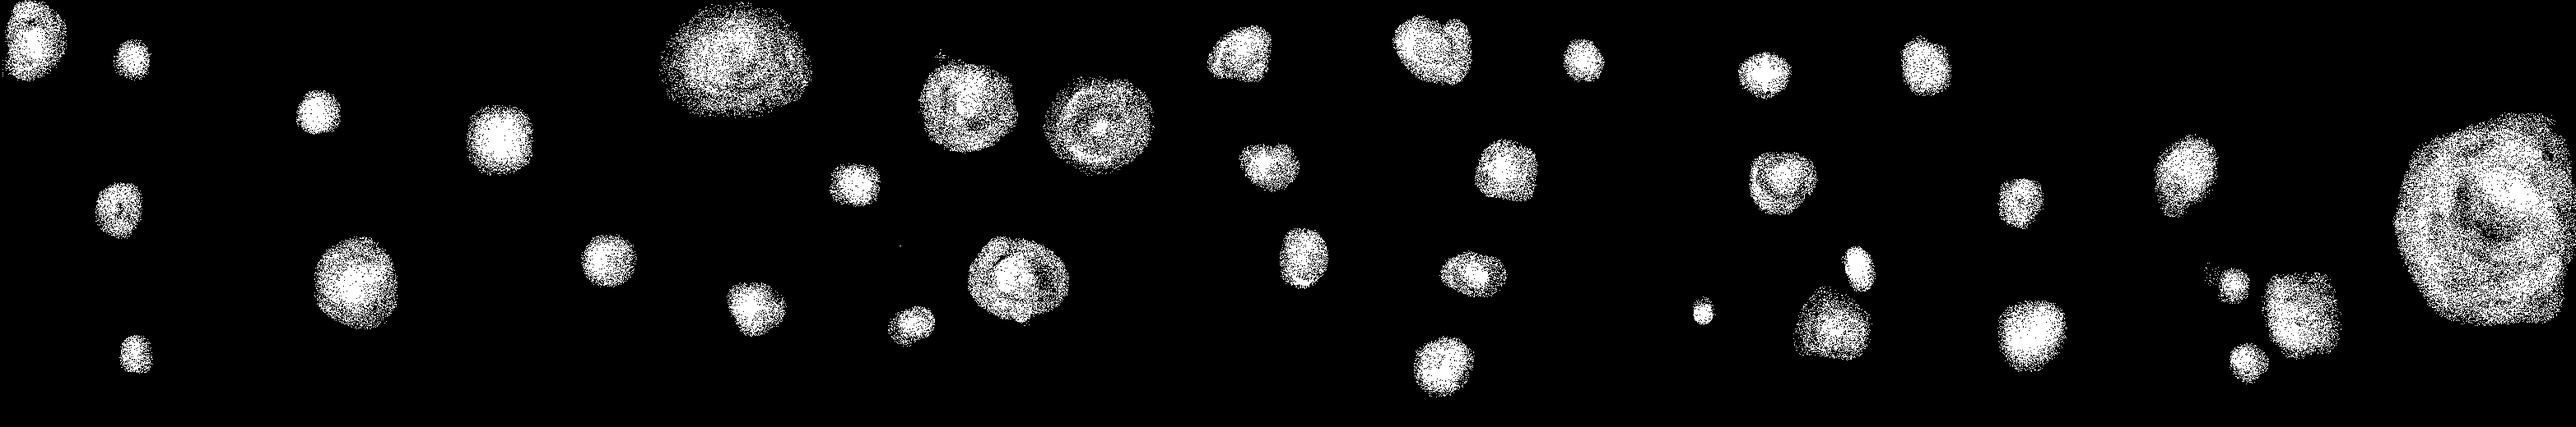
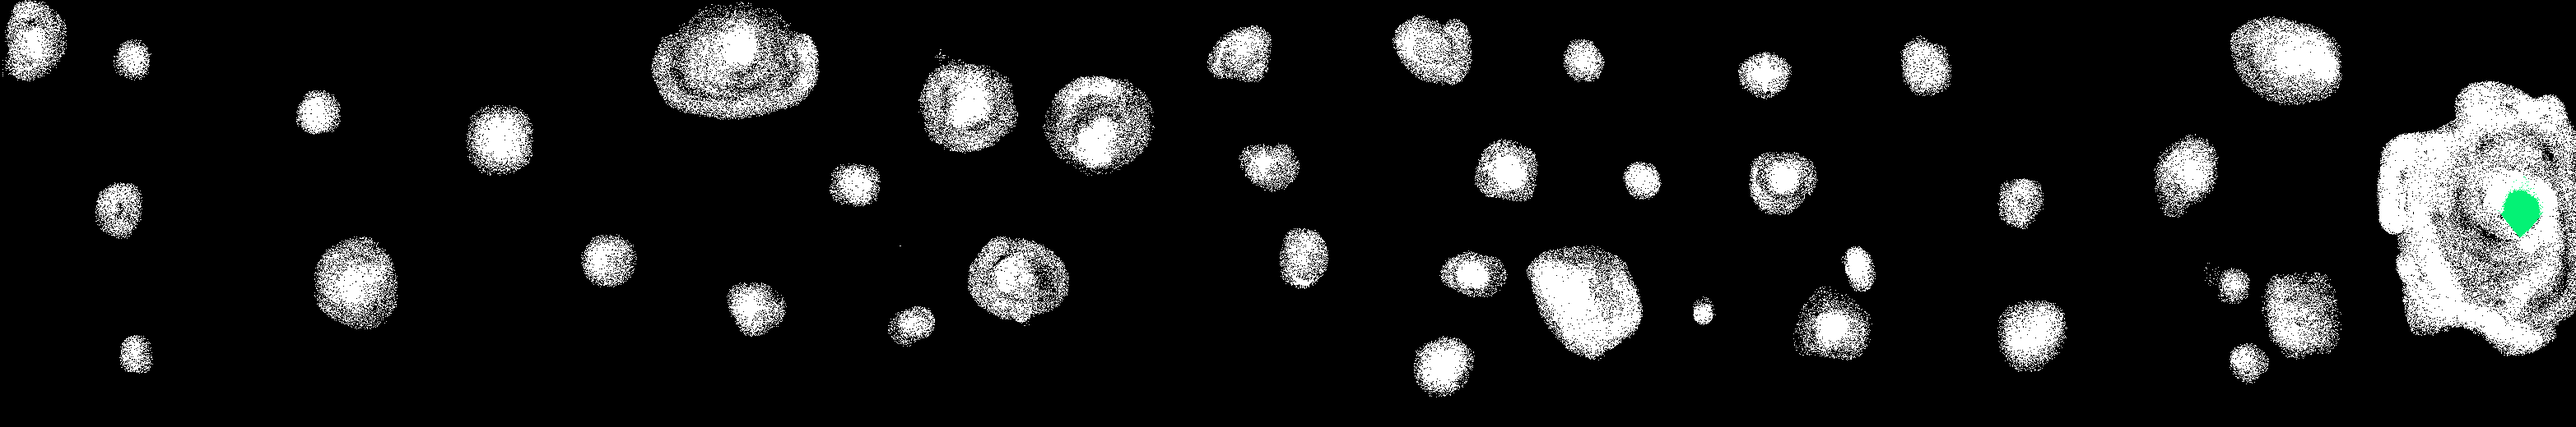
movil

diff --git a/index.html b/index.html
@@ -147,7 +147,7 @@
     #impacto8{
         background-image: url('asteroid.png');
         background-size: cover;
-        top: 50px;
+        top: 650px;
         left: 2200px;
         width: 60px;
         height: 60px;
@@ -167,9 +167,9 @@
     
     button{
         position: relative;
-       margin-top: 5px;
-        width:80px;
-        height:80px;
+        top: 850px;
+        width:120px;
+        height:120px;
         border-radius:100%;
         background-color: chartreuse;
         color:black;
@@ -183,7 +183,7 @@
         left: -10px;
         top:0px;
         width: 5200px;
-        height: 700px;
+        height: 900px;
         transition: 2s;
         animation: fondoX 20s ease-in-out 2s infinite normal none;
 
